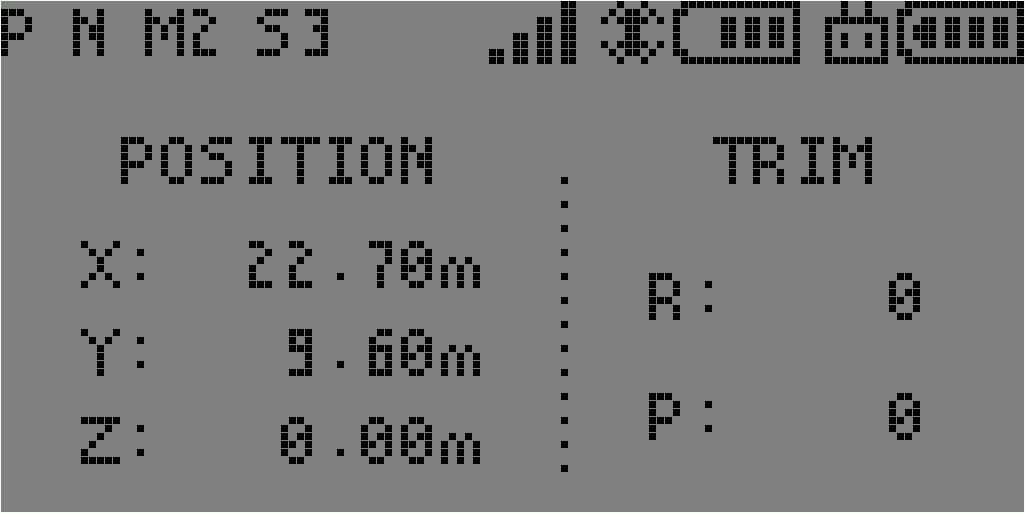
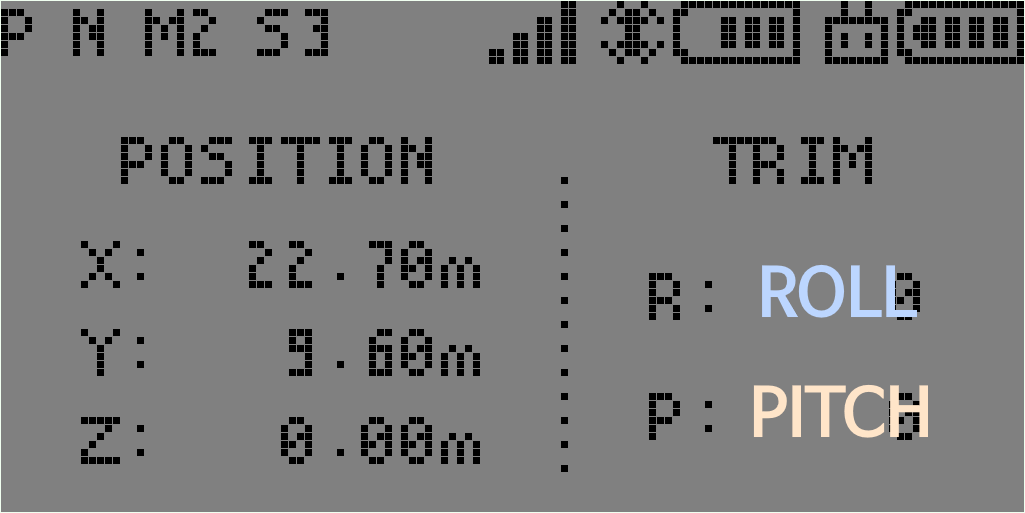
모든 이미지를 원본과 설명이 붙은 것으로 들어가게 함

Changed region(s): [[0.718, 0.7485, 0.9054, 0.8733], [0.718, 0.499, 0.9054, 0.6238]]

diff --git a/documents/kr/products/e_drone/manual/user/index.md b/documents/kr/products/e_drone/manual/user/index.md
@@ -142,6 +142,11 @@ E-Drone의 조종기는 크게 ***조종***과 ***설정*** 두 화면으로 구
                 <img src="./images/drone4controller_4.png">
             </div>
         </td>
+        <td>
+            <div align="center">
+                <img src="./images/drone4controller_4_desc.png">
+            </div>
+        </td>
     </tr>
 </table>
 
@@ -156,6 +161,11 @@ E-Drone의 조종기는 크게 ***조종***과 ***설정*** 두 화면으로 구
         <td>
             <div align="center">
                 <img src="./images/drone4controller_5.png">
+            </div>
+        </td>
+        <td>
+            <div align="center">
+                <img src="./images/drone4controller_5_desc.png">
             </div>
         </td>
     </tr>
@@ -193,6 +203,11 @@ E-Drone의 조종기는 크게 ***조종***과 ***설정*** 두 화면으로 구
         <td>
             <div align="center">
                 <img src="./images/drone4controller_7.png">
+            </div>
+        </td>
+        <td>
+            <div align="center">
+                <img src="./images/drone4controller_7_desc.png">
             </div>
         </td>
     </tr>
